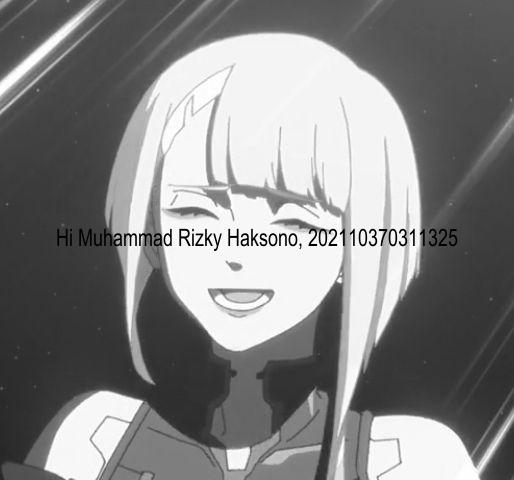
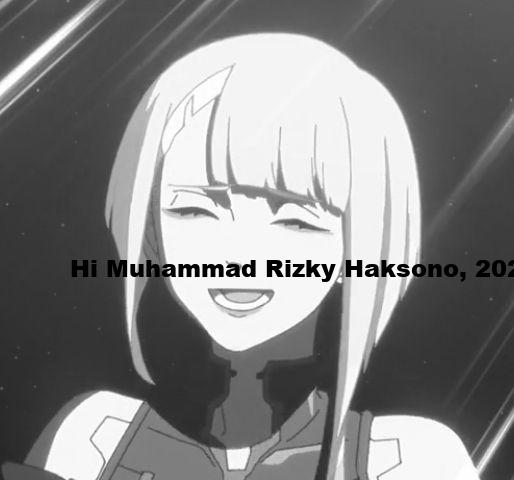
fixt (codelab): on modul 6

Changed region(s): [[0.0934, 0.4688, 1.0, 0.5938]]

diff --git a/modul6/latihan/kegiatan1.py b/modul6/latihan/kegiatan1.py
@@ -6,16 +6,19 @@ current_dir = os.path.dirname(os.path.abspath(__file__))
 img_path = os.path.join(current_dir, "img", "lucy.jpg")
 img = Image.open(img_path)
 
-font_path = os.path.join(current_dir, "font", "arial_light.ttf")
+font_path = os.path.join(current_dir, "font", "arial_bold.ttf")
 custom_font = ImageFont.truetype(font_path, 24)
 
 img_after = ImageOps.grayscale(img.copy())
 draw = ImageDraw.Draw(img_after)
+
 text = "Hi Muhammad Rizky Haksono, 202110370311325"
 image_width, image_height = img.size
 
-text_width, text_height = draw.textsize(text, font=custom_font)
-text_position = ((image_width - text_width) // 2, (image_height - text_height) // 2)
+x_coordinate = 70
+y_coordinate = 250
+
+text_position = (x_coordinate, y_coordinate)
 draw.text(text_position, text, font=custom_font, fill="black")
 
 output_dir = os.path.join(current_dir, "img", "output")

diff --git a/modul6/latihan/kegiatan2.py b/modul6/latihan/kegiatan2.py
@@ -13,8 +13,8 @@ overlay = Image.open(overlay_path)
 overlay = overlay.convert("RGBA")
 overlay = overlay.resize((100, 100))
 
-x_position = 50
-y_position = 50
+x_position = 200
+y_position = 200
 background.paste(overlay, (x_position, y_position), overlay)
 
 output_dir = os.path.join(current_dir, "img", "output")
